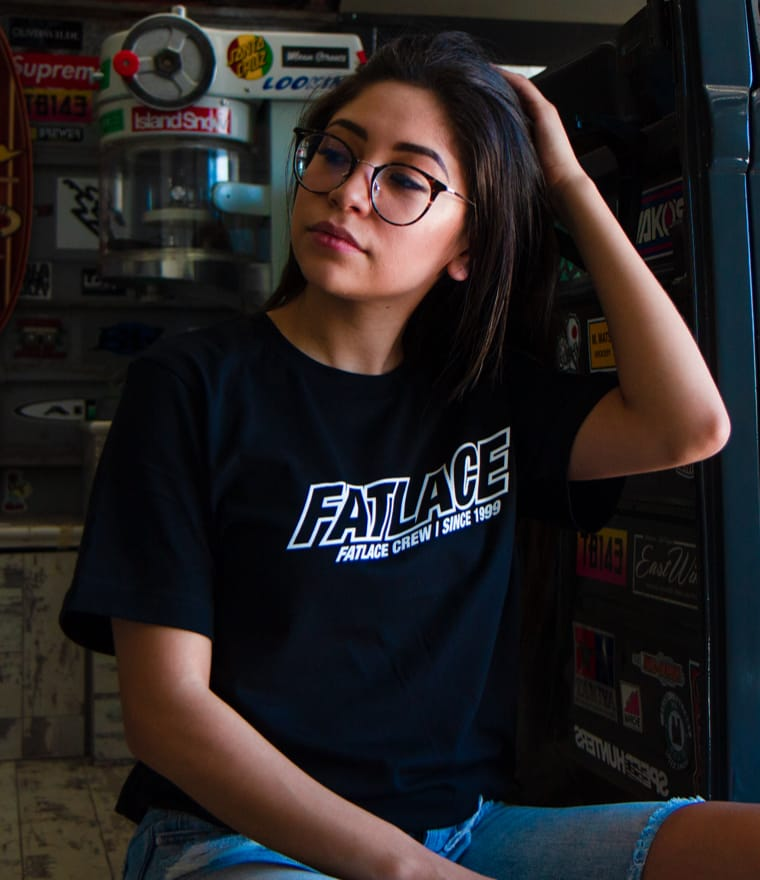
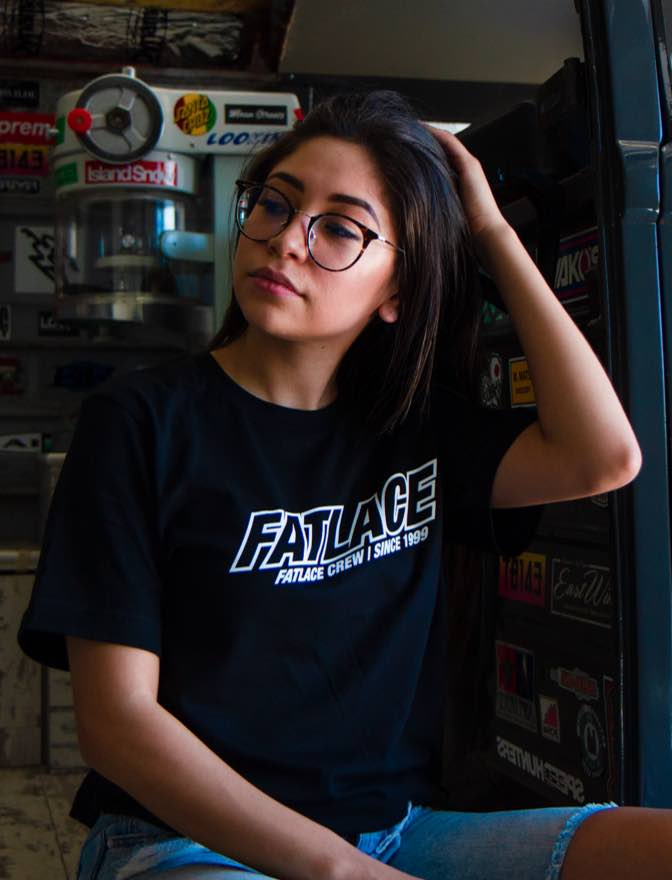
illest card update replaced lorem ipsum and resized card and portrait

diff --git a/style.css b/style.css
@@ -232,12 +232,12 @@ button {
 }
 
 #illest-card-container {
-    width: 1180px;
+    width: 800px;
     margin-left: auto;
     margin-right: auto;
     display: flex;
     background-color: #1f1f1d;
-    border-left: 15px solid #FF3928;
+    border-left: 10px solid #FF3928;
     margin-top: 30px;
     margin-bottom: 80px;
     display: flex;
@@ -245,13 +245,14 @@ button {
 }
 
 #illest-card-text {
-    margin-top: 90px;
-    margin-left: 50px;
-    width: 460px;
+    margin-top: 70px;
+    margin-left: 40px;
+    margin-right:50px;
 }
 
 #illest-portrait {
-    max-width: 560px;
+    max-width: 400px;
+    height:auto;
 }
 
 .h3-card {
@@ -268,10 +269,10 @@ button {
     text-align: left;
 }
 
-@media (max-width: 905px) {
+@media (max-width: 800px) {
     h1 {
-        font-size: 66px;
-        line-height: 66px;
+        font-size: 46px;
+        line-height: 46px;
         margin: 0;
     }
 
@@ -369,6 +370,25 @@ button {
         height: 440px;
         text-align: center;
         margin-top: 50px;
+    }
+    #illest-card-container {
+        max-width: 1180px;
+        margin-left: auto;
+        margin-right: auto;
+        display: flex;
+        background-color: #1f1f1d;
+        border-left: 15px solid #FF3928;
+        margin-top: 30px;
+        margin-bottom: 80px;
+        justify-content: space-between;
+        flex-wrap:wrap;
+    }
+    #illest-card-text {
+        margin-top: 90px;
+        margin-left: 50px;
+    }
+    
+    #illest-portrait {
 
     }
 }

diff --git a/index.html b/index.html
@@ -75,10 +75,10 @@
 
     <div id="illest-card-container">
         <div id="illest-card-text">
-            <h3 class="teko-semibold h3-card" >FREELANCE WORK</h3>
-            <h1 class="teko-bold h1-card">RISUS HENDRERIT
-                IN GRAVIDA</h1>
-                <p class="poppins-regular p-card">Lorem ipsum dolor sit amet, consectetur adipiscing elit, sed do eiusmod tempor incididunt ut labore et dolore magna aliqua. Tortor consequat id porta nibh venenatis cras sed felis. Id donec ultrices tincidunt arcu non sodales neque sodales ut. Quis imperdiet massa tincidunt nunc pulvinar sapien et ligula ullamcorper.</p>
+            <h3 class="teko-semibold h3-card" >SAN MATEO, CALIFORNIA</h3>
+            <h1 class="teko-bold h1-card">MODEL FERNANDA</h1>
+                <p class="poppins-regular p-card">
+                    As a freelance photographer, I did a 2 hour shoot with Fernanda at brand ILLEST's HQ. It was really fun to shoot with complete creative freedom. I also got to use the owner's cars as props.</p>
         </div>
         <img id ="illest-portrait" src="assets/images/illest_portrait_large_2x.jpg" alt="">
     </div>
